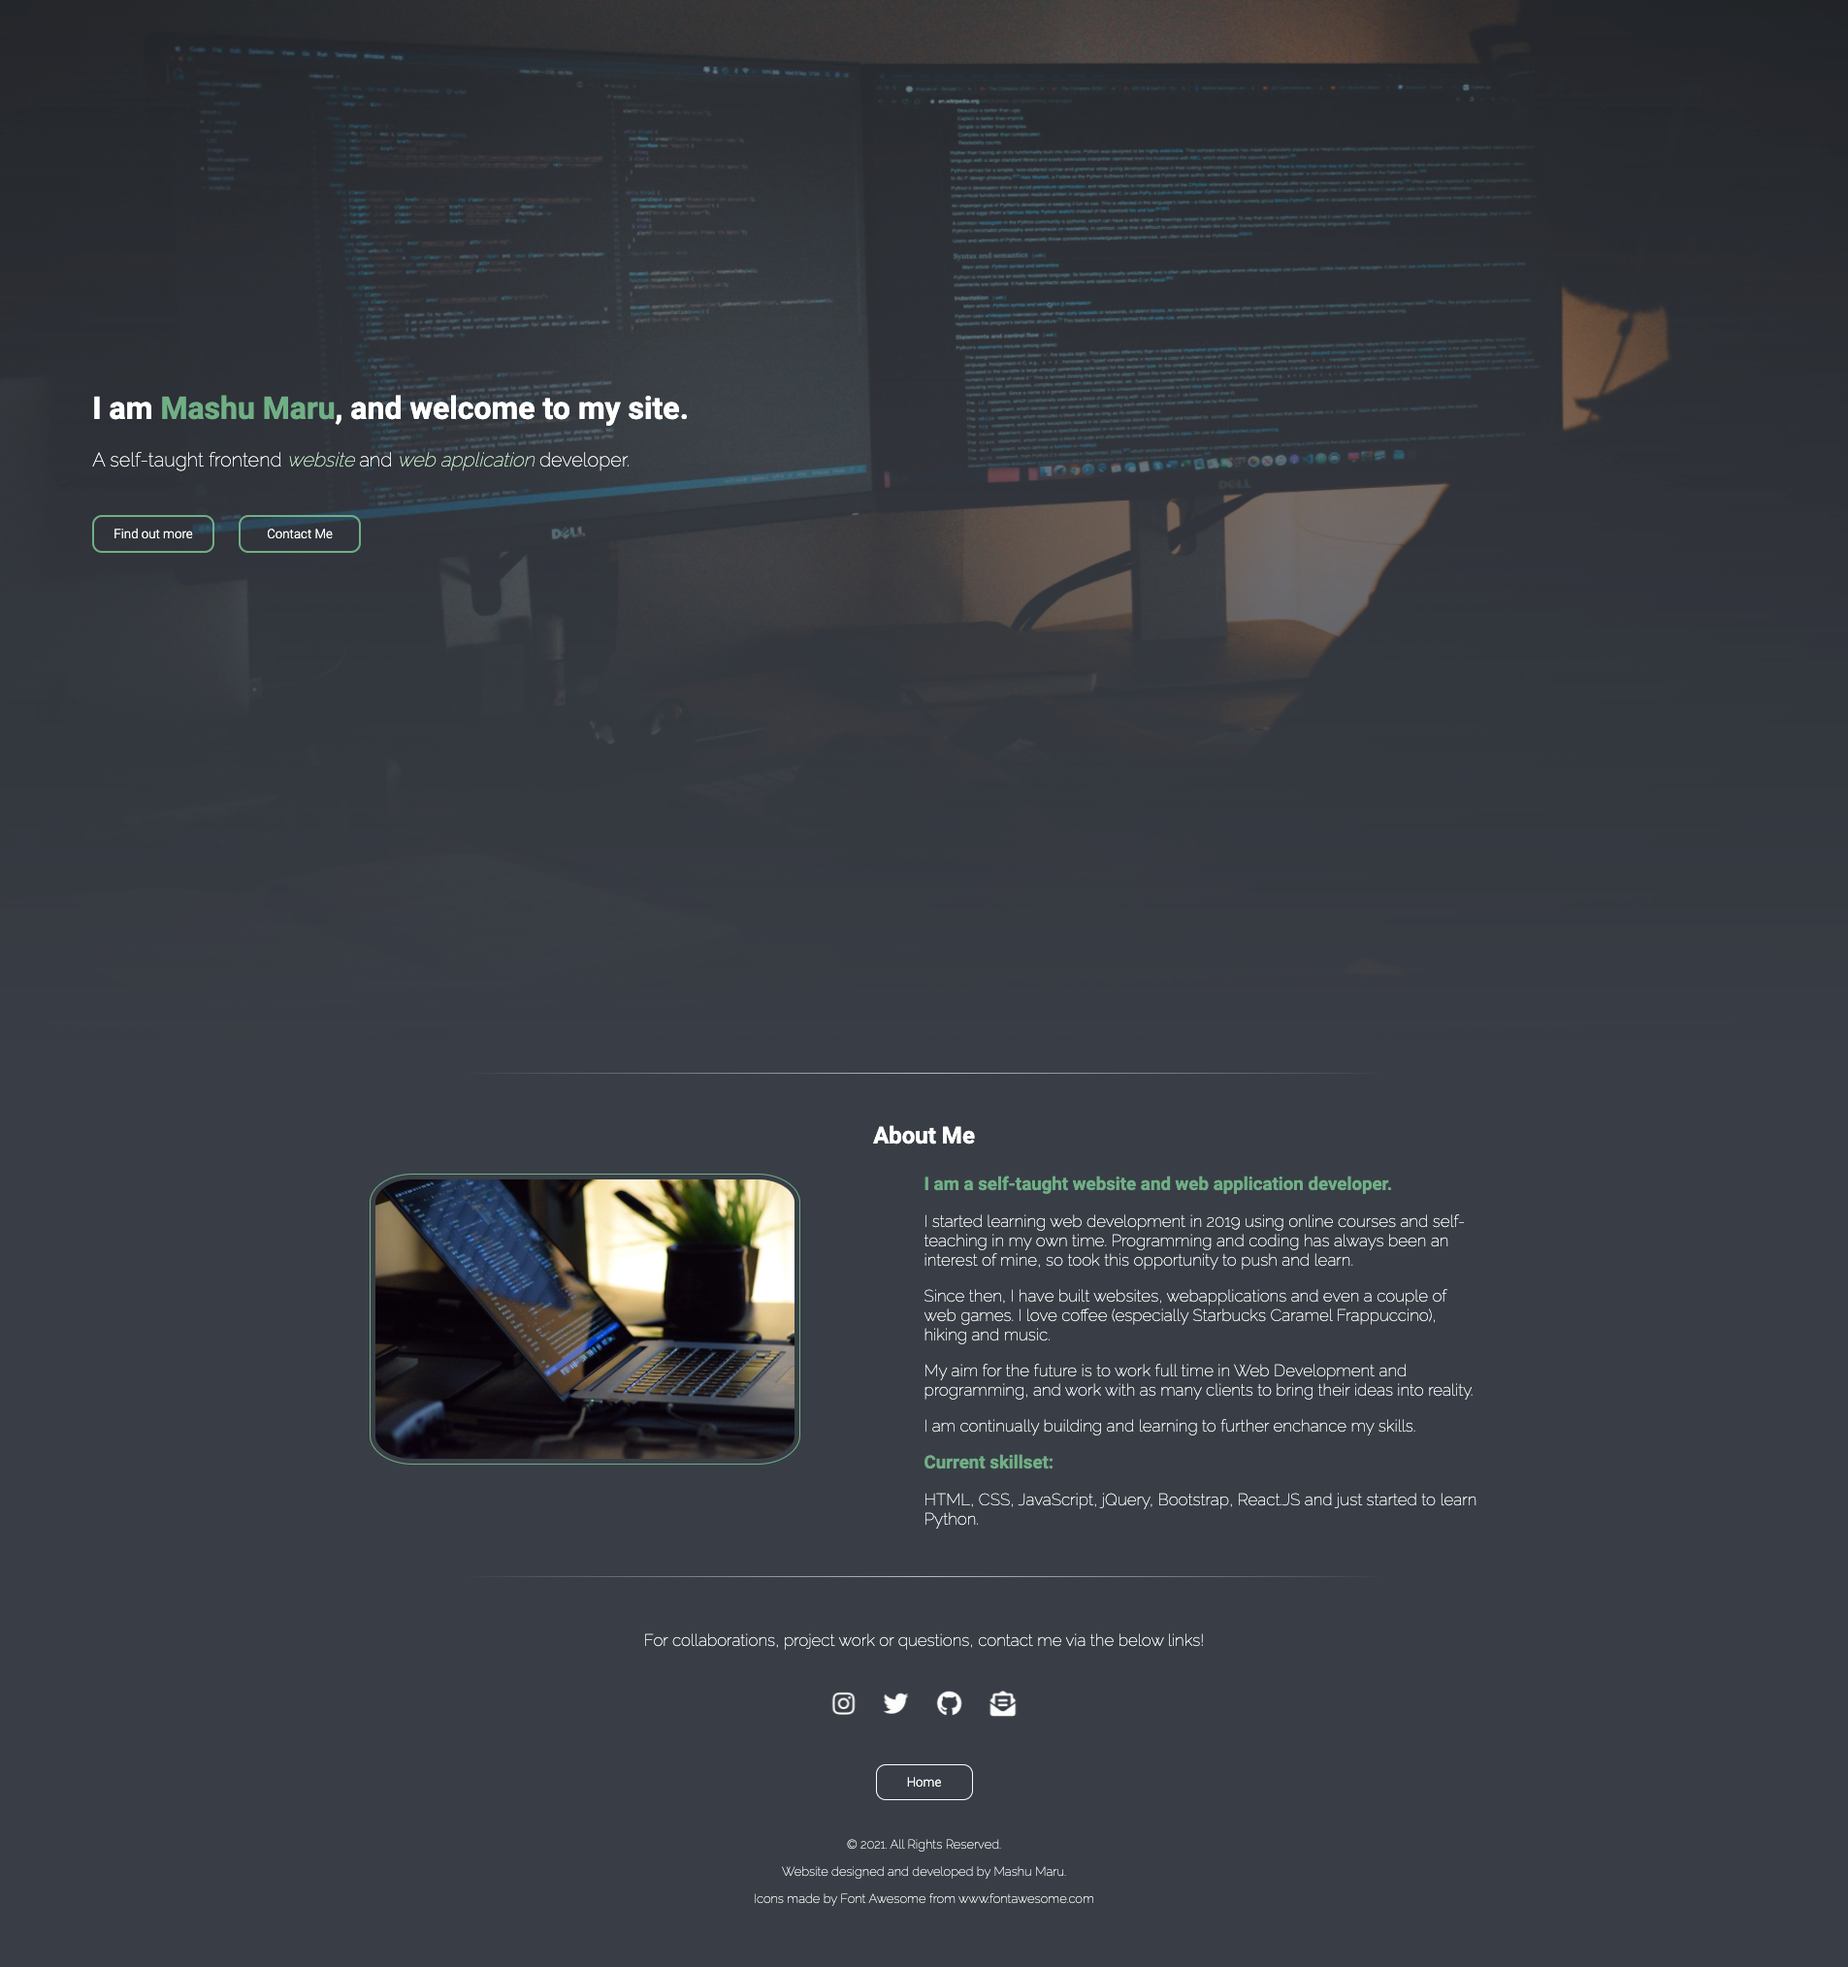
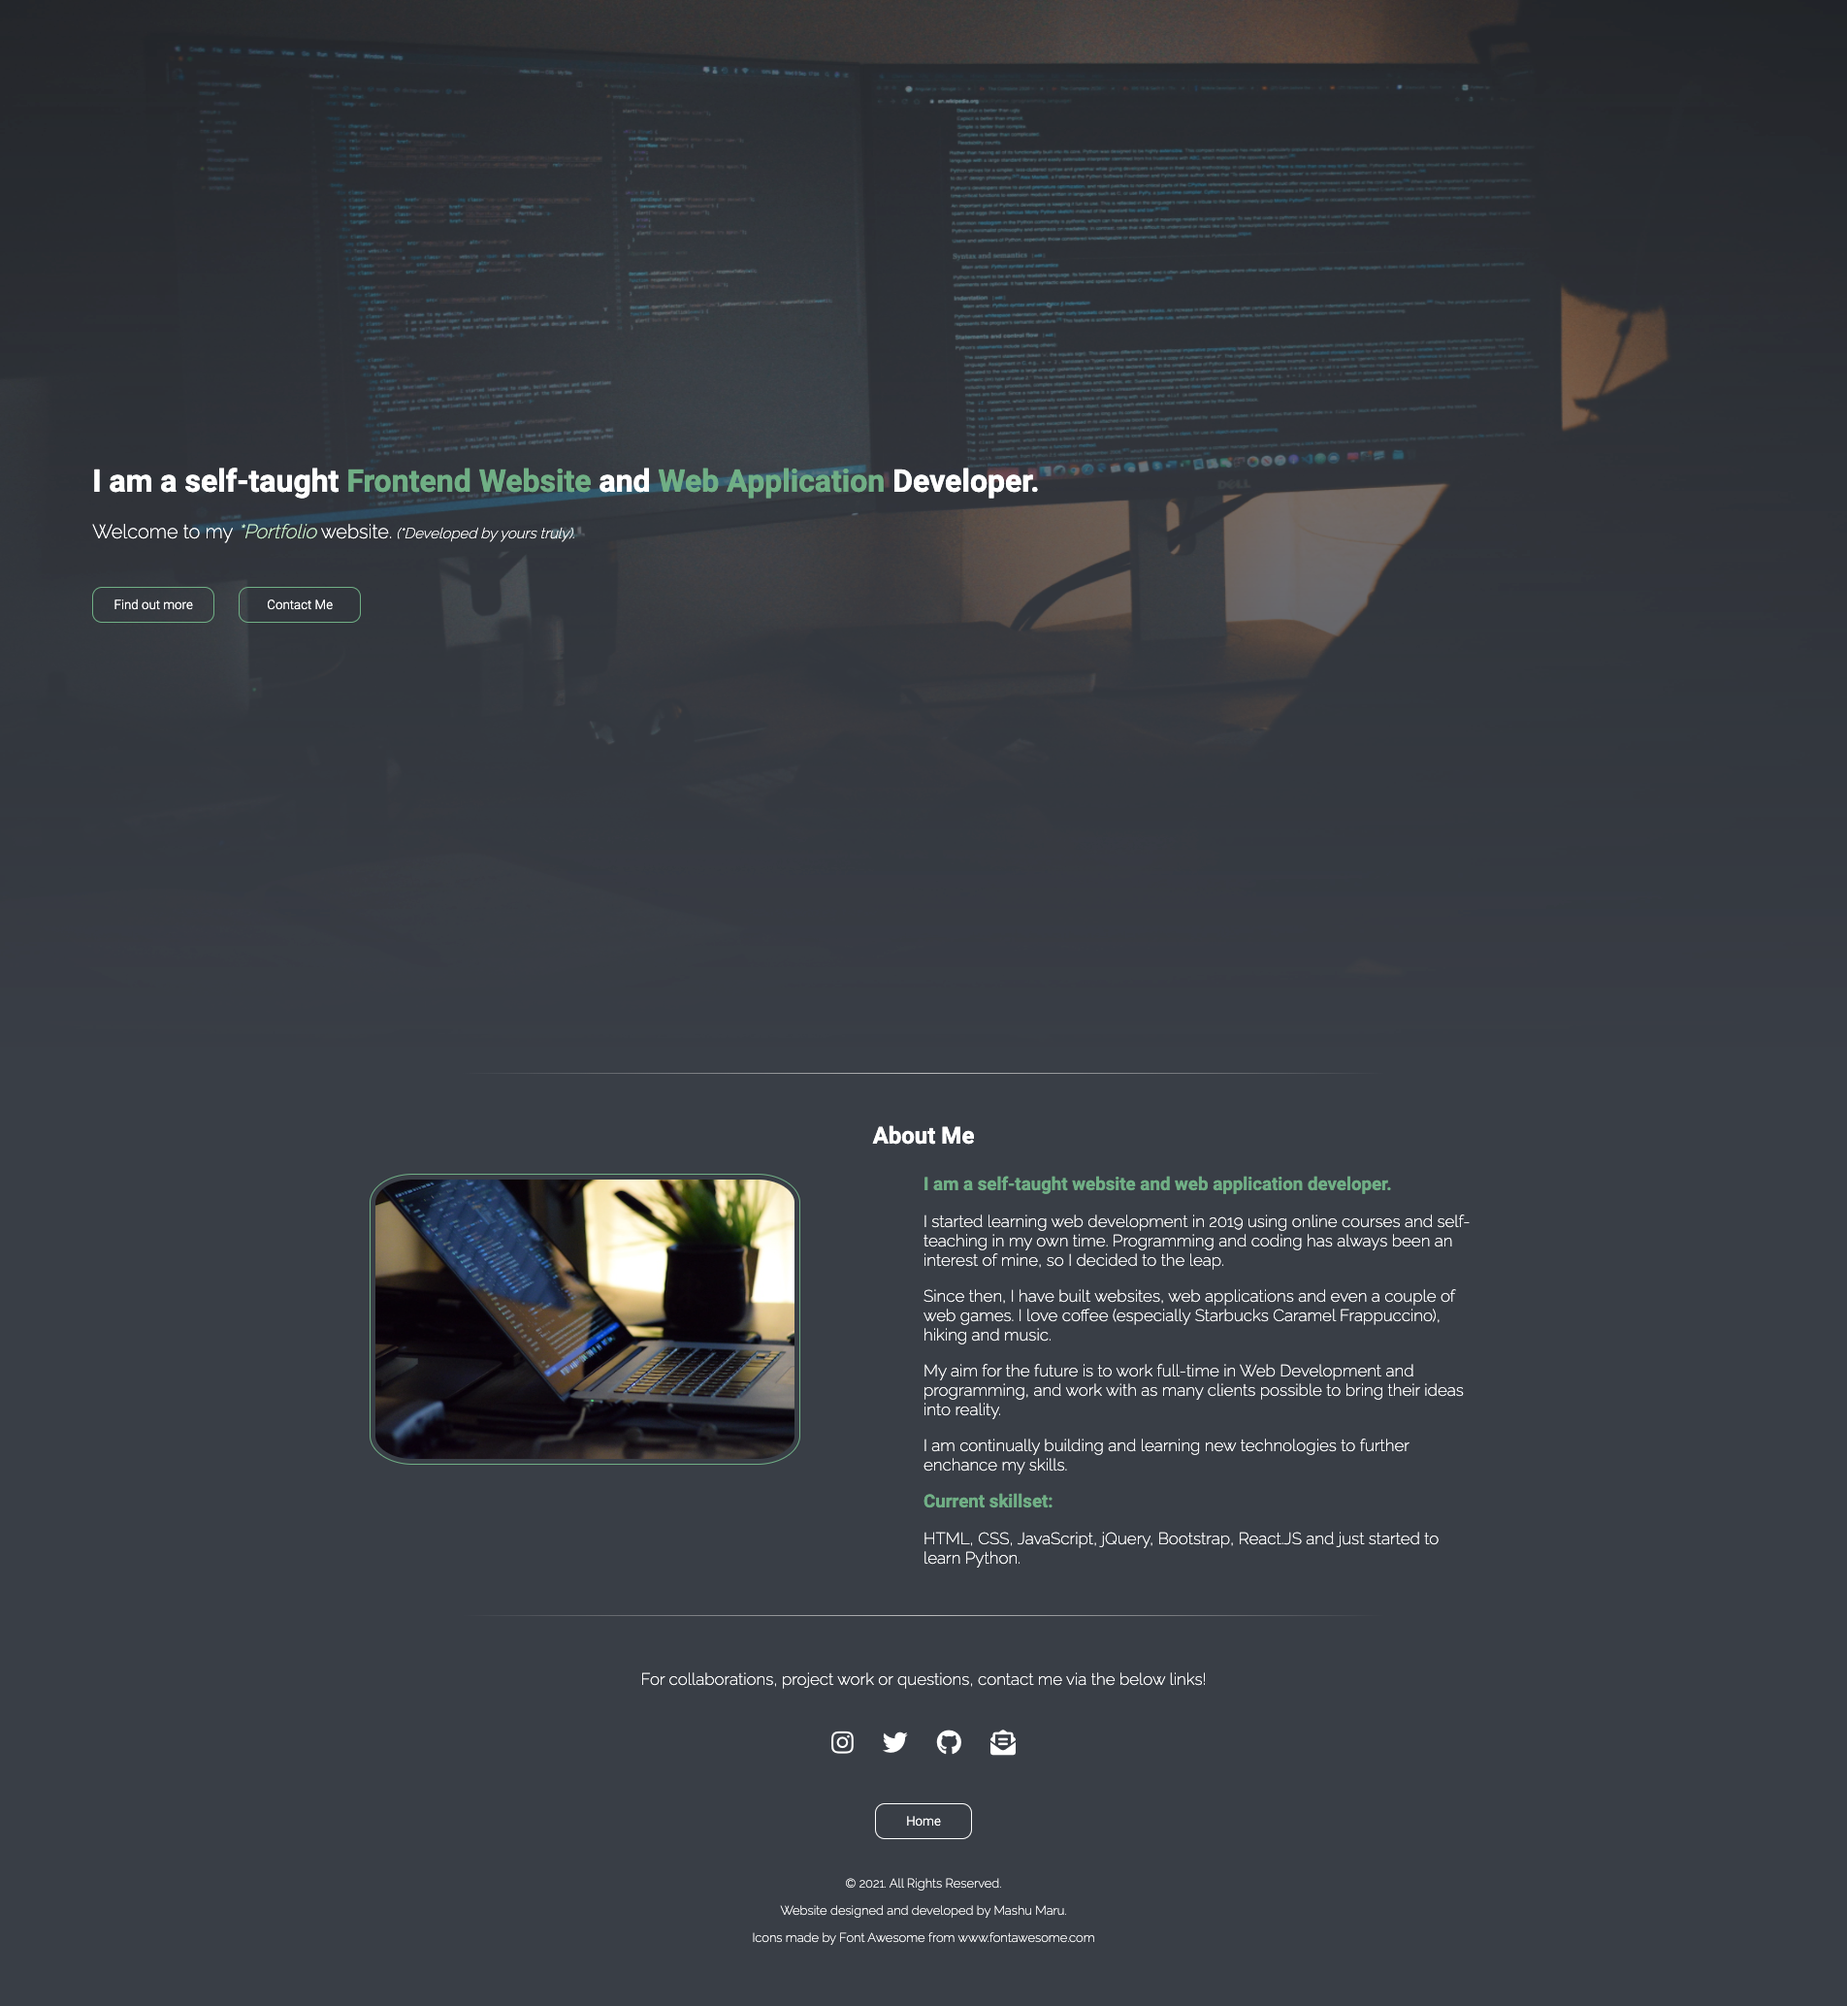
changed header, added further transitions to CSS

diff --git a/src/Components/Header.js b/src/Components/Header.js
@@ -28,12 +28,16 @@ function Header(){
     return <header id="home">
 <div className="header-section">
     <img className="header-img" src={HeaderImg} alt="header-img"></img>
+    {/* data-aos="fade-right" data-aos-duration="1000" to below */}
+    <div>
 
-    <div data-aos="fade-right" data-aos-duration="1000">
-
-        <h1 className='header-h1'>I am <span className='name'>Mashumaru</span>, and welcome to my site.</h1>
+        {/* <h1 className='header-h1'>I am <span className='name'>Mashumaru</span>, and welcome to my site.</h1>
         <p className='header-p'>A self-taught frontend <span className='emphasis'>website</span> and <span className='emphasis'>web application</span> developer.</p>
-        <div data-aos="fade-right" data-aos-duration="2000">
+        <div data-aos="fade-right" data-aos-duration="2000"> */}
+        <h1 className='header-h1'>Hi, I am a self-taught <span className='name'>Frontend Web Developer</span>. </h1>
+        <p className='header-p'>Welcome to my <span className='emphasis'>*Portfolio</span> website.<i className="caveat"> (*Developed by yours truly).</i></p>
+        {/* data-aos="fade-right" data-aos-duration="2000" to below */}
+        <div >
         <a href="#about">
         <button onMouseEnter={mouseOver} onMouseLeave={mouseOut} className='find-button' href="#about">
         {isMouseOver ? <i class="fas fa-angle-double-down"></i> : 'Find out more'} 

diff --git a/src/Components/Footer.js b/src/Components/Footer.js
@@ -19,7 +19,8 @@ function Footer(){
     return  <div id="connect" className="footer">
     <hr></hr>
     <p class="connect-p">For collaborations, project work or questions, contact me via the below links!</p>
-    <div data-aos="zoom-in" data-aos-duration="500">
+    {/* data-aos="zoom-in" data-aos-duration="500" to below */}
+    <div>
     <a target="_blank" rel="noreferrer" href="https://www.instagram.com/mycodejournal/"><i class="fab fa-instagram fa-2x icons"></i></a>
     <a target="_blank" rel="noreferrer" href="https://twitter.com/Mattmaru1"><i class="fab fa-twitter fa-2x icons"></i></a>
     <a target="_blank" rel="noreferrer" href="https://github.com/MashuMaru"><i class="fab fa-github fa-2x icons"></i></a>

diff --git a/src/Components/About.js b/src/Components/About.js
@@ -7,11 +7,12 @@ function About() {
     return  <section id="about">
     <hr></hr>
     <div className="about-div">
-    <div className='section' data-aos="fade-right" data-aos-duration="500">
+    {/* data-aos="fade-right" data-aos-duration="500" to below */}
+    <div className='section'>
         <h1 className="title">About Me</h1>
  <div className="container-div">
-
-    <div className="col about-pic-section" data-aos="fade-right" data-aos-duration="1000">
+ {/* data-aos="fade-right" data-aos-duration="1000" to below */}
+    <div className="col about-pic-section">
         <img className="profile-pic" src={Mashumaru} alt="pic-of-me"></img>
         </div>
 

diff --git a/src/Components/Projects/NotesApp.js b/src/Components/Projects/NotesApp.js
@@ -14,7 +14,7 @@ function NotesApp() {
         <p className="about-details">This is a web application I built to keep notes, 
         add and delete as required. </p>
         <p className="about-details">I built this to test my knowledge and practice my skills
-        in Javascript making the site a fully functional web application.</p> 
+        in JavaScript/jQuery making the site a fully functional web application.</p> 
         <p className="about-details">It was designed and developed by me.</p> 
         <p className="about-details">I built the website using:</p>
         <p className="about-details"><li>HTML</li></p>

diff --git a/public/styles.css b/public/styles.css
@@ -21,8 +21,8 @@ html {
     padding: 0;
     overflow-x: hidden; 
     width: 100%;
-    scroll-behavior: smooth;
-    transition-duration: 500ms
+    /* scroll-behavior: smooth;
+    transition-duration: 500ms */
 }
 
 header {
